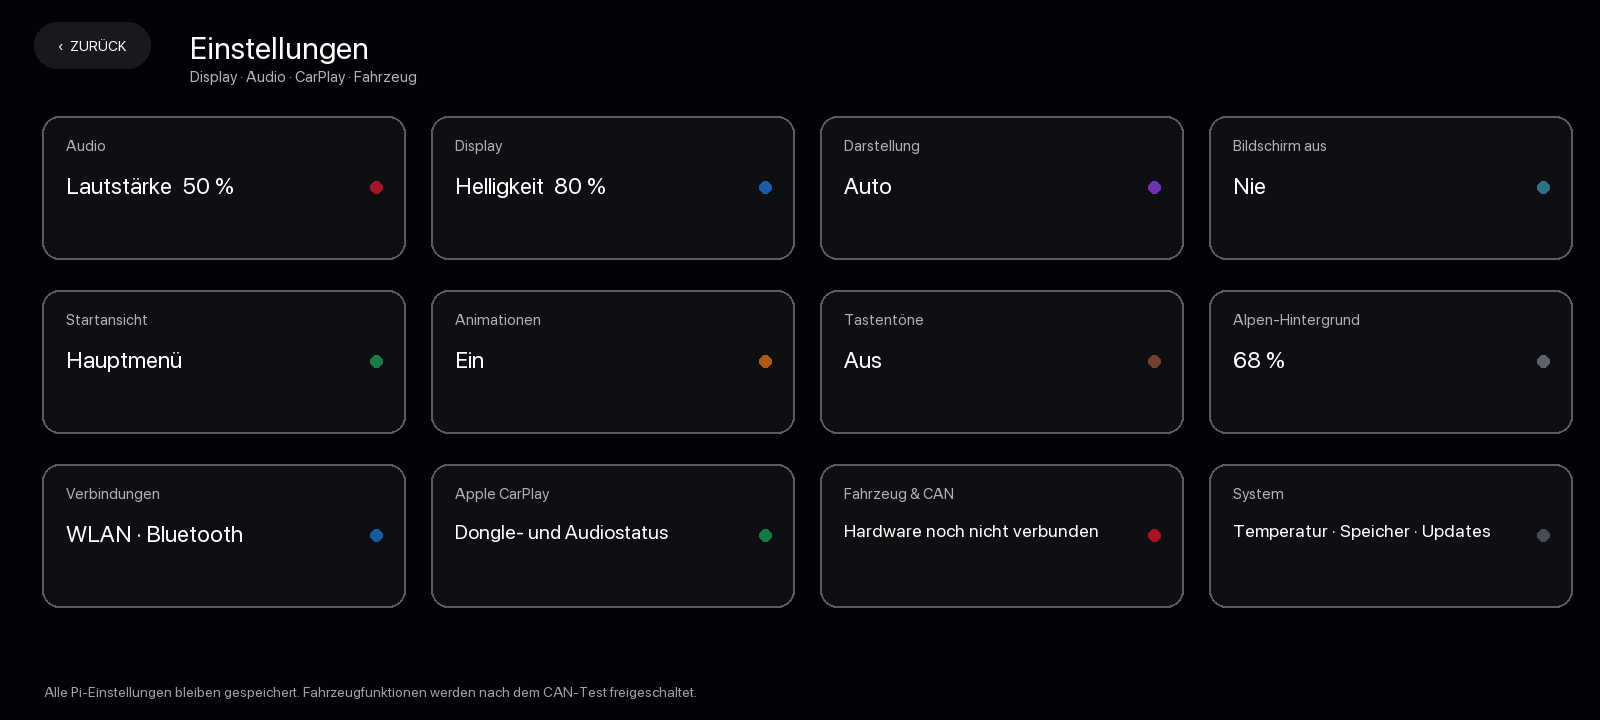
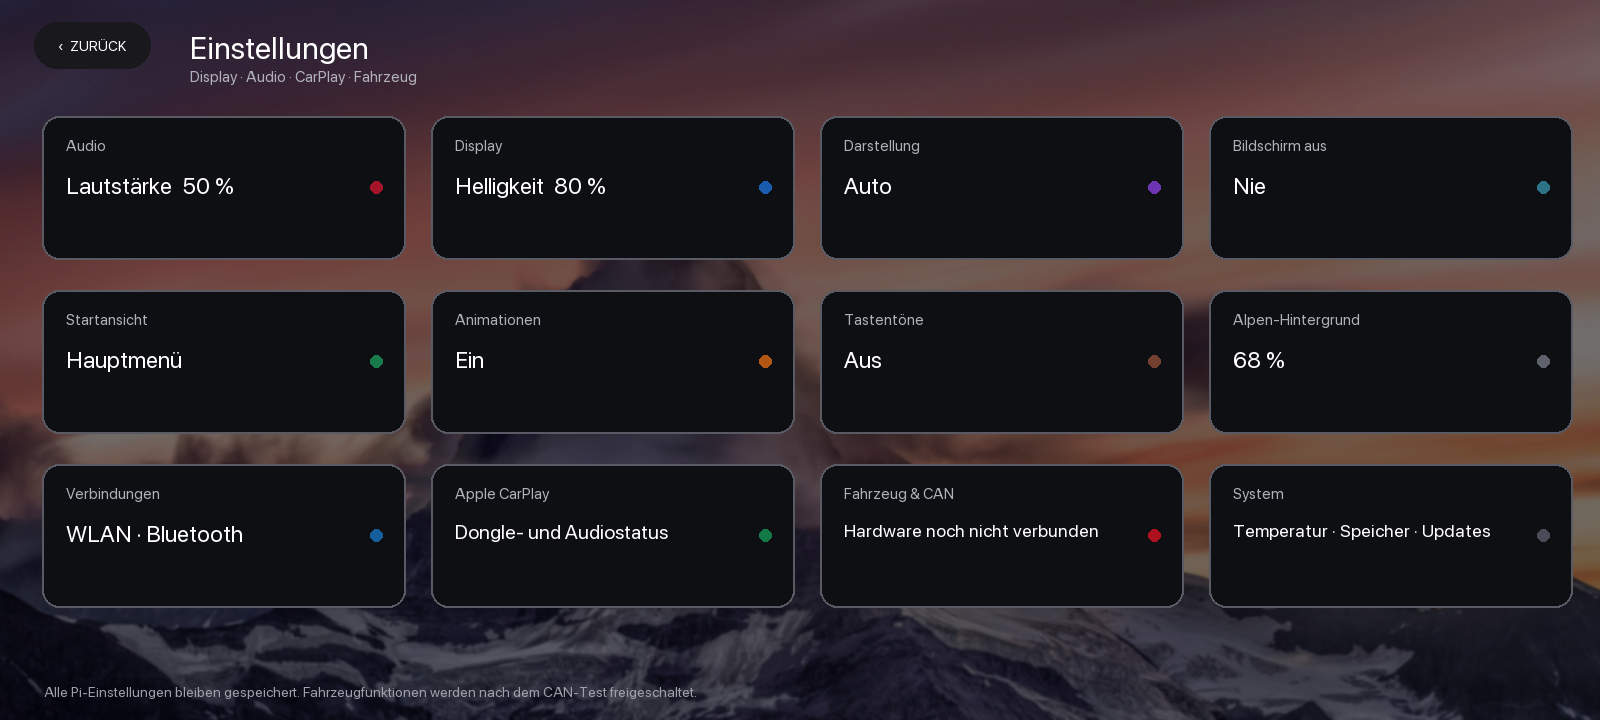
Show Alps background across MMI pages

diff --git a/design/render_settings_preview.py b/design/render_settings_preview.py
@@ -13,9 +13,9 @@ def font(size,bold=False):
     return ImageFont.load_default()
 
 im=ImageOps.fit(Image.open(root/'assets/alps-background.jpg').convert('RGB'),(W,H),Image.Resampling.LANCZOS,centering=(.5,.5)).filter(ImageFilter.GaussianBlur(1.2)).convert('RGBA')
-im=Image.blend(im,Image.new('RGBA',(W,H),(3,3,8,255)),.57)
+im=Image.blend(im,Image.new('RGBA',(W,H),(3,3,8,255)),.40)
+im=Image.alpha_composite(im,Image.new('RGBA',(W,H),(2,2,7,70)))
 d=ImageDraw.Draw(im,'RGBA')
-d.rectangle((0,0,W,H),fill=(2,2,7,100))
 d.rounded_rectangle((34,22,150,68),23,fill=(24,24,29,242))
 d.text((92,45),'‹  ZURÜCK',anchor='mm',font=font(14,True),fill='white')
 d.text((190,29),'Einstellungen',font=font(31,True),fill='white')

diff --git a/native-launcher/launcher.py b/native-launcher/launcher.py
@@ -365,7 +365,9 @@ class SettingsView(Gtk.DrawingArea):
             cr.set_source_surface(self.background, 0, 0); cr.paint()
         else:
             cr.set_source_rgb(.02,.02,.03); cr.paint()
-        cr.set_source_rgba(.01,.01,.02,.68); cr.rectangle(0,0,1600,720); cr.fill()
+        # Keep the same Alpine identity on every page while preserving enough
+        # contrast for controls and small status text.
+        cr.set_source_rgba(.01,.01,.02,.48); cr.rectangle(0,0,1600,720); cr.fill()
         self.hitboxes = []
         _rounded_rect(cr, 34, 22, 116, 46, 23); _set_rgba(cr, (.10,.10,.12), .94); cr.fill()
         _text(cr, "‹  ZURÜCK", 92, 52, 14, (1,1,1), True, "center")

diff --git a/pi-gen-stage/stage-audi-mmi/01-audi-mmi-files/files/launcher.py b/pi-gen-stage/stage-audi-mmi/01-audi-mmi-files/files/launcher.py
@@ -365,7 +365,9 @@ class SettingsView(Gtk.DrawingArea):
             cr.set_source_surface(self.background, 0, 0); cr.paint()
         else:
             cr.set_source_rgb(.02,.02,.03); cr.paint()
-        cr.set_source_rgba(.01,.01,.02,.68); cr.rectangle(0,0,1600,720); cr.fill()
+        # Keep the same Alpine identity on every page while preserving enough
+        # contrast for controls and small status text.
+        cr.set_source_rgba(.01,.01,.02,.48); cr.rectangle(0,0,1600,720); cr.fill()
         self.hitboxes = []
         _rounded_rect(cr, 34, 22, 116, 46, 23); _set_rgba(cr, (.10,.10,.12), .94); cr.fill()
         _text(cr, "‹  ZURÜCK", 92, 52, 14, (1,1,1), True, "center")
